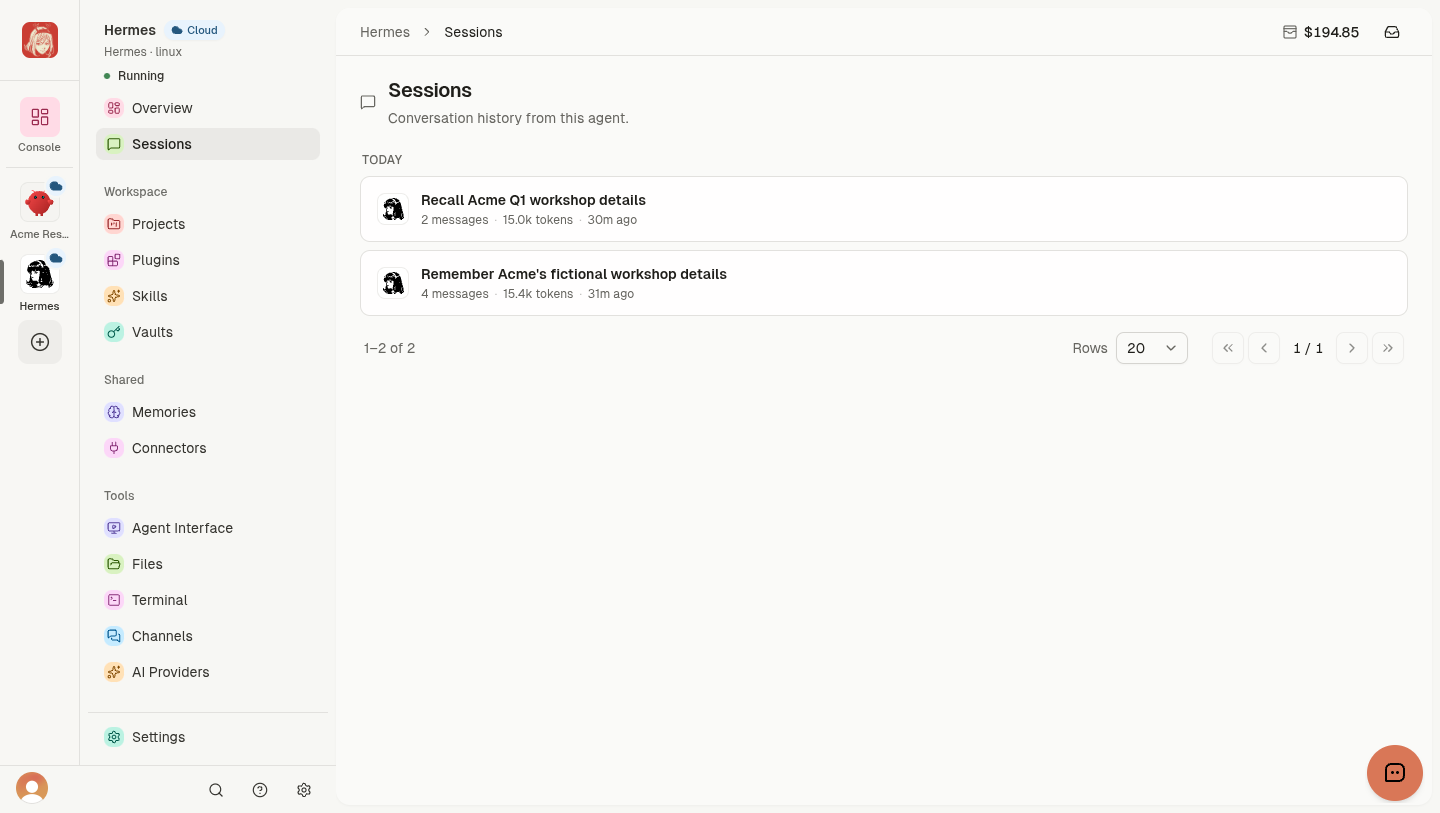
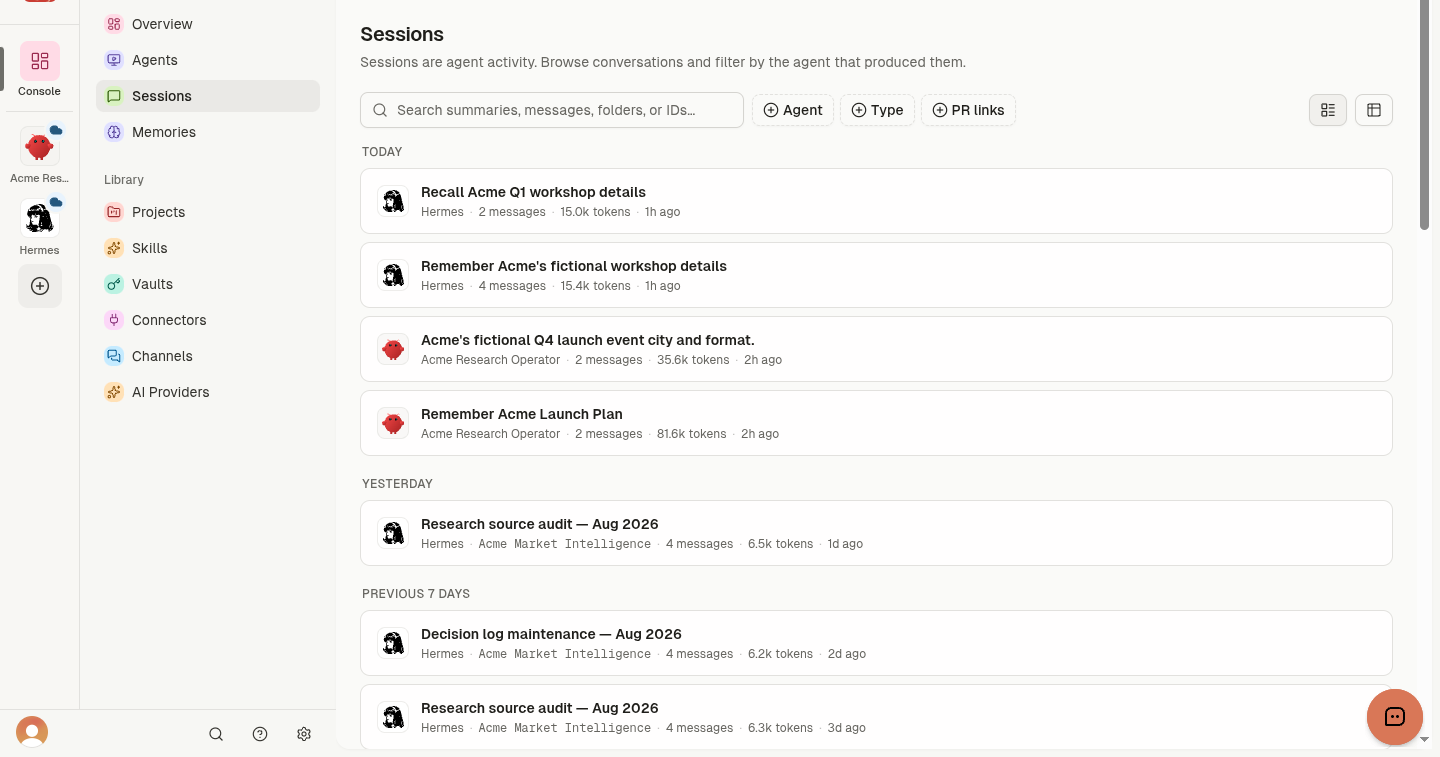
docs: show long-term Session activity

diff --git a/docs/clawdi-cloud-product-tour.md b/docs/clawdi-cloud-product-tour.md
@@ -2,8 +2,9 @@
 
 This tour shows the current Clawdi Cloud experience with a synthetic Acme
 Market Intelligence workspace. The demo contains 25 account Memories, five
-Project Skills, 12 Workspace files, a linked Project, and multiple Agent
-Sessions. Names, companies, decisions, and activity are fictional.
+Project Skills, 12 Workspace files, a linked Project, and more than 150 Agent
+Sessions spanning 11 months. Names, companies, decisions, and activity are
+fictional.
 
 For task-by-task instructions, use the canonical [Clawdi
 Docs](https://docs.clawdi.ai). Start with the [Cloud Agent
@@ -16,6 +17,15 @@ Clawdi brings supported Agent activity, context, and tools into one product.
 A **Cloud Agent** runs in a remote runtime managed by Clawdi. A **Connected
 Agent** runs on your computer. Agent software, including Hermes, OpenClaw,
 Claude Code, and Codex, is a separate choice from the run path.
+
+## Review long-running activity
+
+The Overview activity graph summarizes Session starts across the last 12
+months. The synthetic workspace has 111 active days with varied activity
+density, so the dashboard demonstrates sustained Agent use alongside recent
+Sessions and shared Library resources.
+
+![Clawdi Overview with two running demo Agents and a populated 12-month Session activity heatmap](images/dashboard-activity.png)
 
 ## Start from a Running Agent
 
@@ -71,7 +81,7 @@ Sessions provide searchable Agent conversation history for later review and
 recall. Session availability and detail depend on the connected Agent
 software and its synchronization path.
 
-![Two Hermes Sessions showing a saved fact and a fresh-session recall check](images/cloud-sessions.png)
+![Populated synthetic Session history grouped by recent activity](images/cloud-sessions.png)
 
 See [Sessions](https://docs.clawdi.ai/guides/sessions) for search, sharing, and
 export workflows.

diff --git a/README.md b/README.md
@@ -25,11 +25,11 @@
 </p>
 
 <p align="center">
-  <img src="docs/images/dashboard-preview.png" alt="A running Hermes Cloud Agent in the Clawdi dashboard" width="900">
+  <img src="docs/images/dashboard-activity.png" alt="Clawdi overview with a populated 12-month Agent activity heatmap" width="900">
 </p>
 
 <p align="center">
-  <em>Running Hermes Cloud Agent with a linked Project, durable Memories, and recent Sessions. All visible content comes from a synthetic demo workspace.</em><br>
+  <em>Two running demo Agents with long-term Session activity and shared Library resources. All visible content comes from a synthetic demo workspace.</em><br>
   <a href="docs/clawdi-cloud-product-tour.md">Open the current Clawdi Cloud product tour →</a>
 </p>
 
